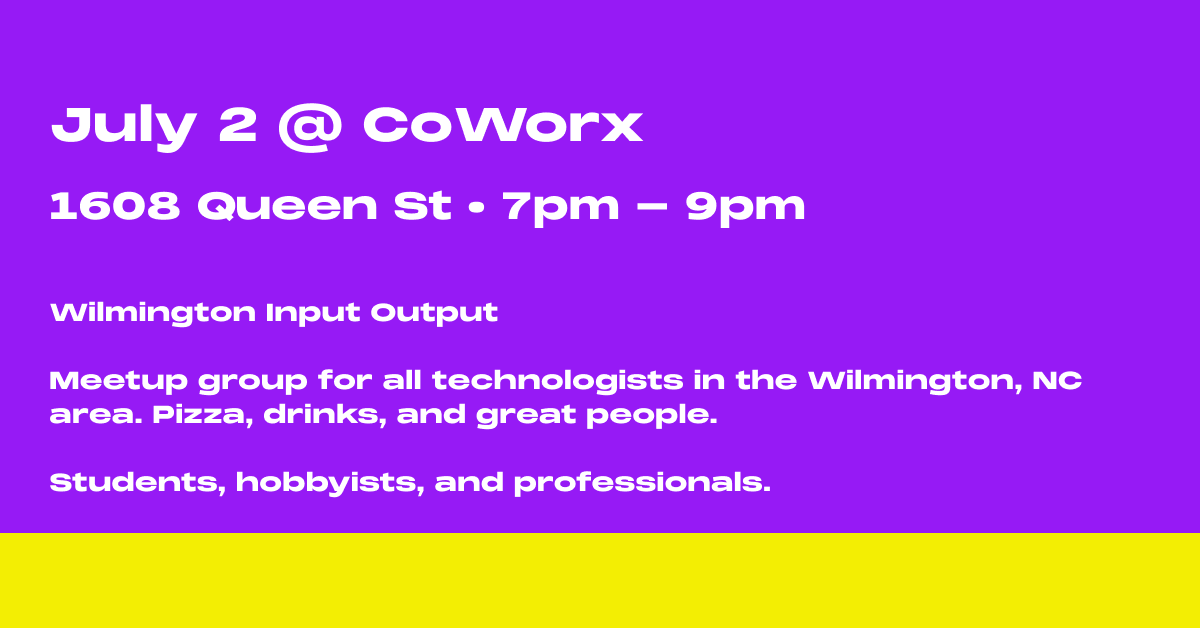
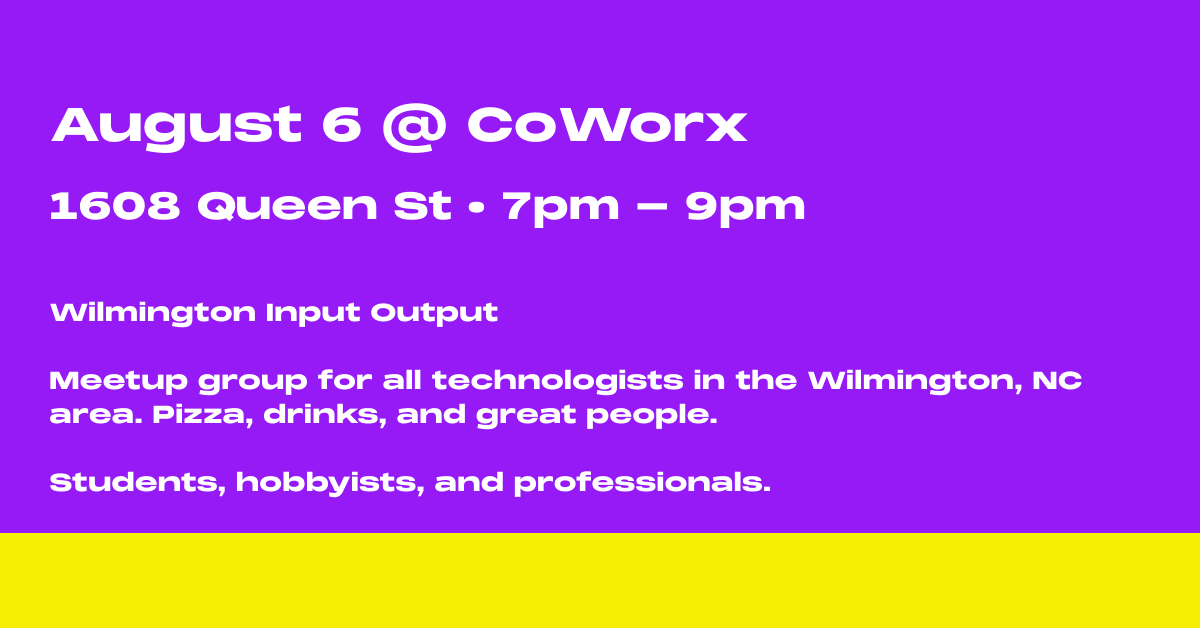
Update for next meetup

Changed region(s): [[0.0308, 0.1513, 0.6167, 0.242]]

diff --git a/src/index.html b/src/index.html
@@ -70,15 +70,15 @@
         <div class="cards">
             <div>
                 <h3>Past Events</h3>
-                <span>96+</span>
+                <span>97+</span>
             </div>
             <div>
                 <h3>Unique Attendees</h3>
-                <span>56+</span>
+                <span>58+</span>
             </div>
             <div>
                 <h3>when</h3>
-                <span>July 2</span>
+                <span>August 6</span>
                 <sub>7pm - 9pm</sub>
             </div>
             <div>
